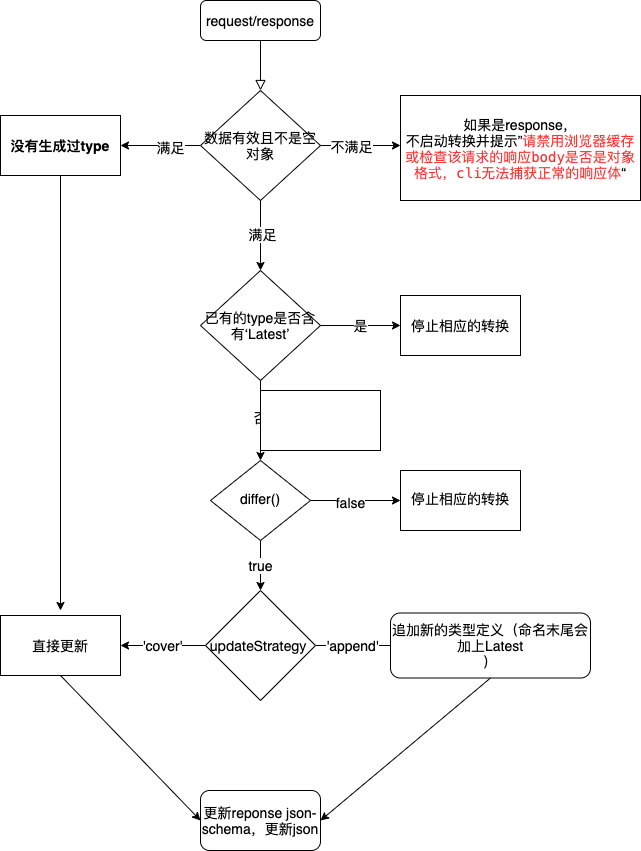
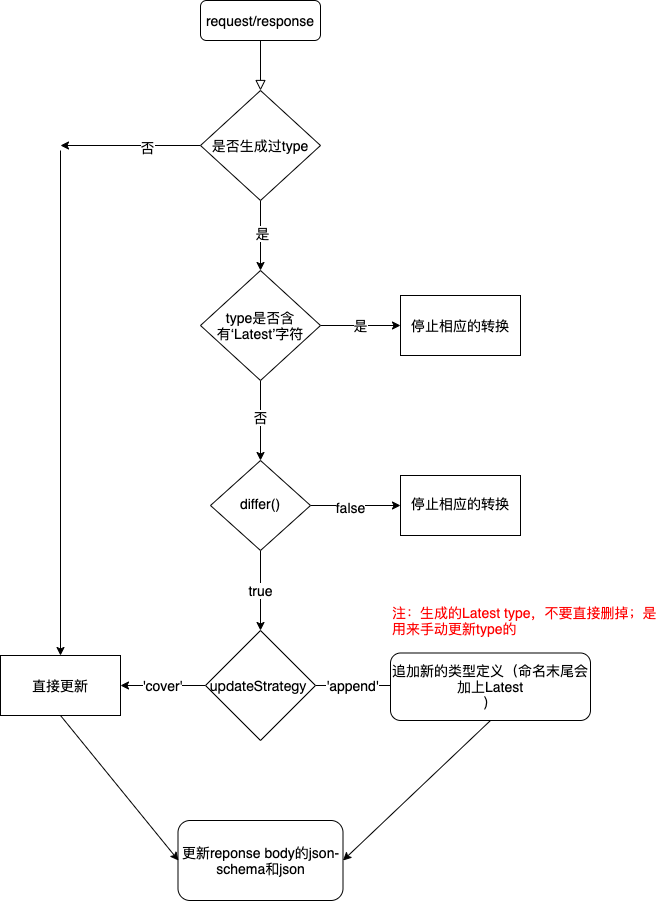
feat: 类型检查工具从flow切换为ts

diff --git a/src/index.ts b/src/index.ts
@@ -19,7 +19,7 @@ import { ApiTypeFileNameSuffix } from './suffix-of-file-name.config';
 import { differ } from './differ';
 const insideDiffer = differ;
 import type { DifferParams } from './differ';
-import { getReqParamsTypeContent, getResBodyTypeContent } from './API-content';
+import { getReqParamsTypeContent, getResBodyTypeContent, Latest } from './API-content';
 import anyBody = require('body/any');
 
 type Tag = 'request' | 'response' | 'mock' | 'invalidResponseBody';
@@ -98,7 +98,7 @@ function apiLog(data: express.Request | http.IncomingMessage, tag: Tag) {
 	console.log('content-type:', data.headers['content-type'] || '');
 }
 
-function ignoreProxy(req: express.Request, ignoreUrls: string[], ignoreMethods: string[]): boolean {
+function ignoreReqProxy(req: express.Request, ignoreUrls: string[], ignoreMethods: string[]): boolean {
 	const { url, method } = req;
 	for (const ignoreUrl of ignoreUrls) {
 		if (url.indexOf(ignoreUrl) > -1) {
@@ -106,6 +106,14 @@ function ignoreProxy(req: express.Request, ignoreUrls: string[], ignoreMethods: 
 		}
 	}
 	if (ignoreMethods.map((i) => i.toLowerCase()).includes(method.toLowerCase())) {
+		return true;
+	}
+	return false;
+}
+
+function ignoreResProxy(res: http.IncomingMessage): boolean {
+	const errorCodes = [StatusCodes.NOT_FOUND, StatusCodes.BAD_GATEWAY, StatusCodes.GATEWAY_TIMEOUT, StatusCodes.INTERNAL_SERVER_ERROR];
+	if (errorCodes.includes(res.statusCode)) {
 		return true;
 	}
 	return false;
@@ -170,7 +178,7 @@ program
 				return;
 			}
 
-			if (ignoreProxy(req, ignoreUrls, ignoreMethods)) {
+			if (ignoreReqProxy(req, ignoreUrls, ignoreMethods)) {
 				return;
 			}
 
@@ -225,7 +233,13 @@ program
 				return;
 			}
 
-			if (ignoreProxy(req, ignoreUrls, ignoreMethods)) {
+			const { url, method } = req;
+			if (!url || !method) {
+				logError('url或method无效');
+				return;
+			}
+
+			if (ignoreResProxy(proxyRes)) {
 				return;
 			}
 
@@ -233,12 +247,6 @@ program
 				// modify some information
 				// body.age = 2;
 				// delete body.version;
-
-				const { url, method } = req;
-				if (!url || !method) {
-					logError('url或method无效');
-					return body;
-				}
 
 				const { fileName, typeFileSavePathHead, interfacePrefixName } = step(req, typeFileSavePath);
 				const typeName = interfacePrefixName + 'ResbodyI';
@@ -263,15 +271,13 @@ program
 					return body;
 				}
 
-				if (!validateDataBeforeConvert(body)) {
-					apiLog(req, 'invalidResponseBody');
-					logError('请禁用浏览器缓存或检查该请求的响应body是否是对象格式，cli无法捕获正常的响应体，该请求的转换已终止');
-					return body;
-				}
-
 				// 将参数的保存置于此处，是为了保证日志按序输出
 				return triggerSaveReqParams().then(() => {
 					apiLog(proxyRes, 'response');
+					if (!validateDataBeforeConvert(body)) {
+						log('响应体无效', LogColors.blue);
+						return body;
+					}
 					const result = getResBodyTypeContent({
 						body,
 						typeFilePath,
@@ -294,12 +300,12 @@ program
 					}).then(() => {
 						// 保存data
 						saveJSON(jsonFilePath, JSON.stringify(body));
-						// 将interface转jsonschema
 						const schemaContent = ts2jsonschema({
 							fileName,
 							filePath: latestTypeContentFilePath || typeFilePath,
 							tsTypeName: typeName,
 						});
+						// 将interface转jsonschema
 						saveJSON(schemaFilePath, schemaContent).then(() => {
 							fs.unlinkSync(latestTypeContentFilePath);
 						});

diff --git a/README.md b/README.md
@@ -10,8 +10,7 @@ json 作为返回数据，进而实现 mock 的功能。开发此功能使用了
 ## 原理
 
 1. 启动一个处于在前端和后端的中间服务器，通过反向代理让请求从该服务器过，从而劫持请求和响应做自动转换的功能。
-2. 支持自定义 differ() 来更新文件，因为接口大多会变化，所以 ts 需要更新；默认是强制更新文件，以最新的 ts 替换原来的，也可以设置为 append，则会把最新 ts 命名为
-   xxxLatest 的追加到后面；
+2. 支持自定义 differ() 来更新文件；默认是强制更新文件，以最新的 ts 替换原来的，也可以设置为 append，则会把最新 ts 命名为 xxxLatest 的追加到后面；
 3. 请求参数和返回数据都通过 differ() 的返回来决定是否更新，两者的参数略有不同。请求参数通过 differ() 判断时没有 schema 和 oldData
 
 ![原理](./api-converter.png)
